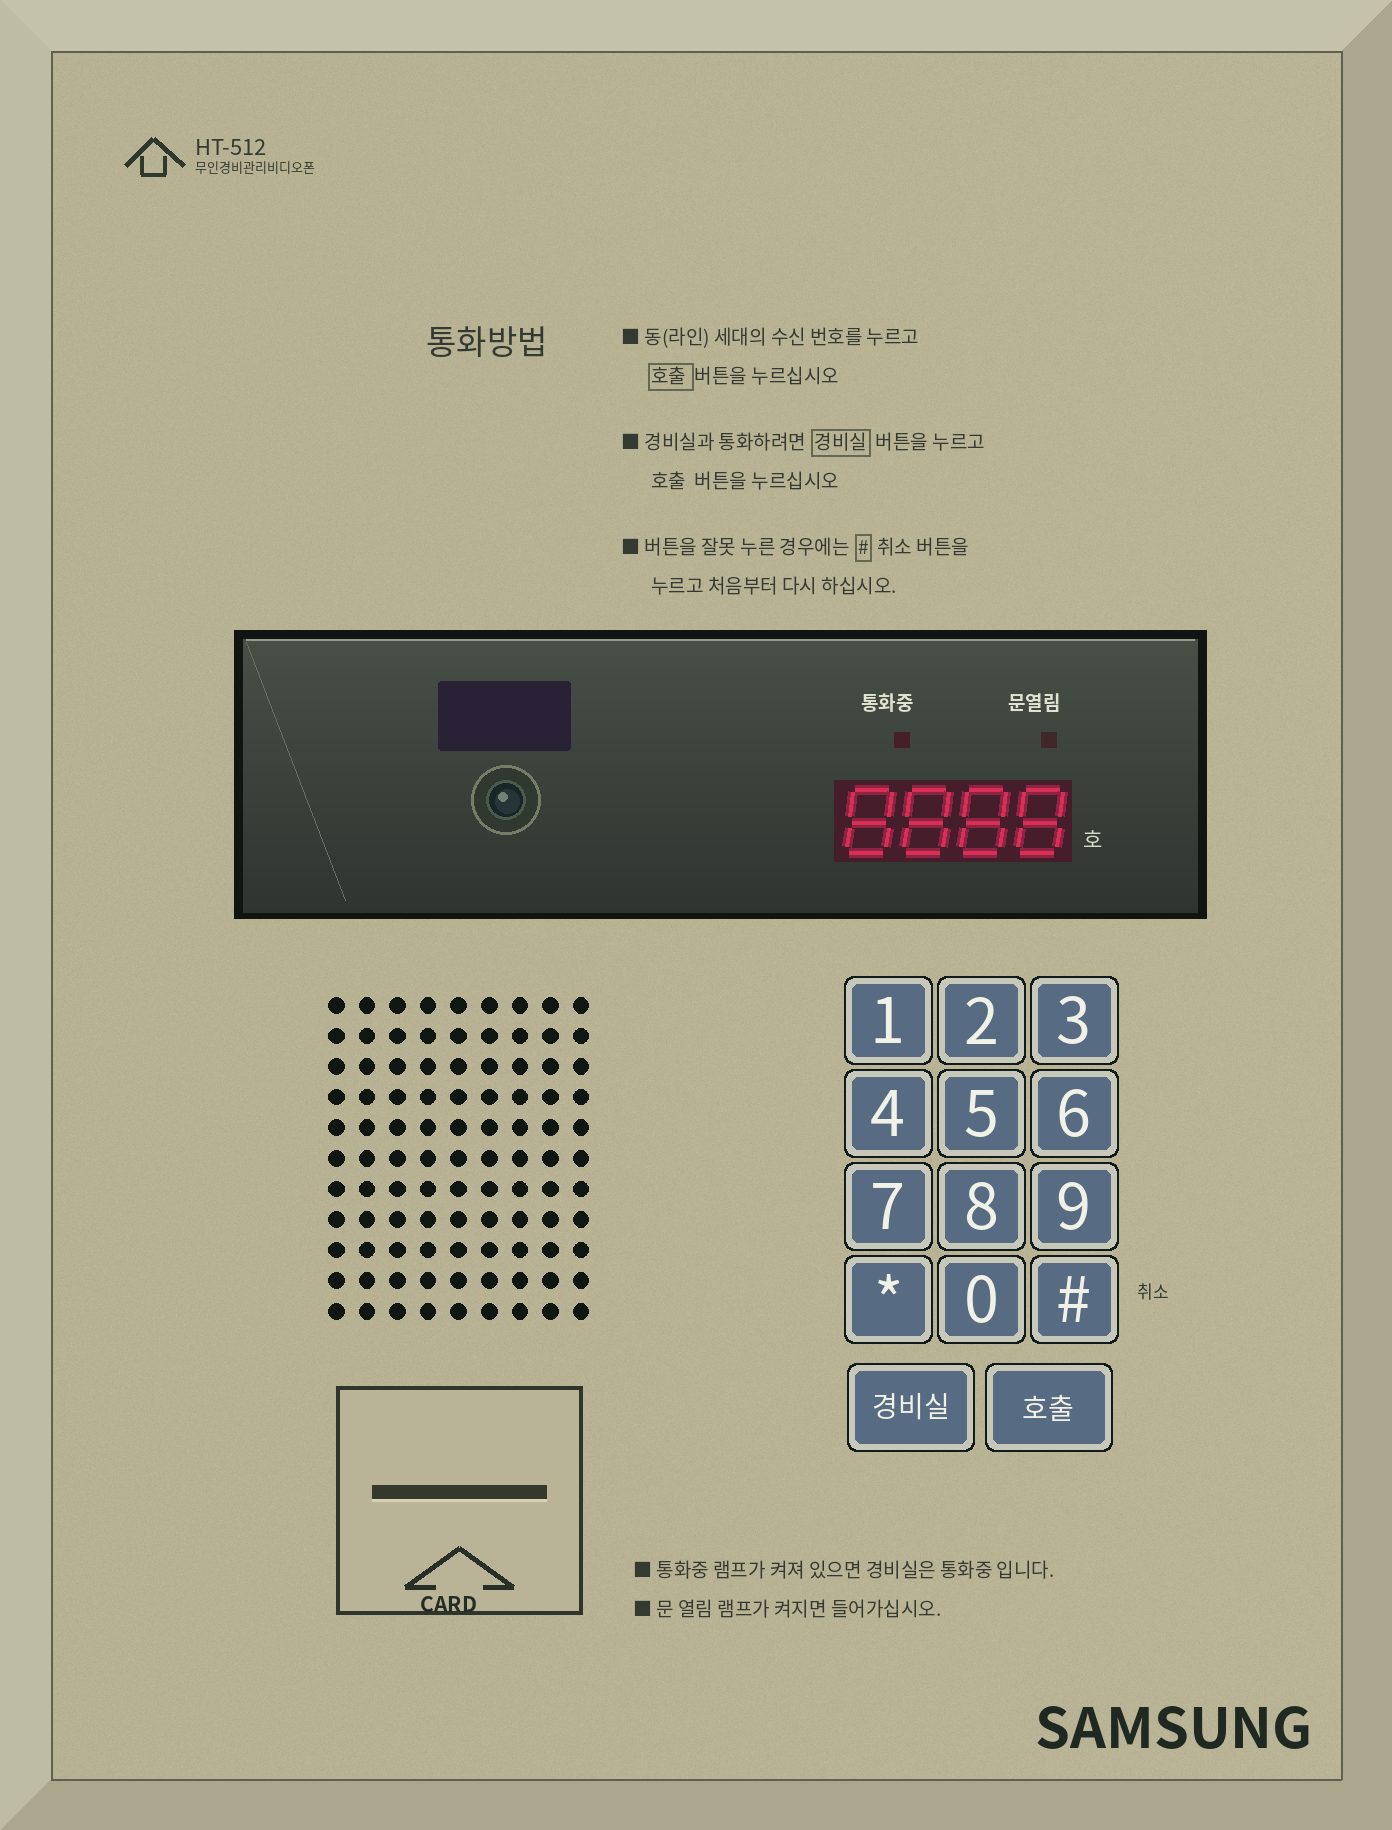
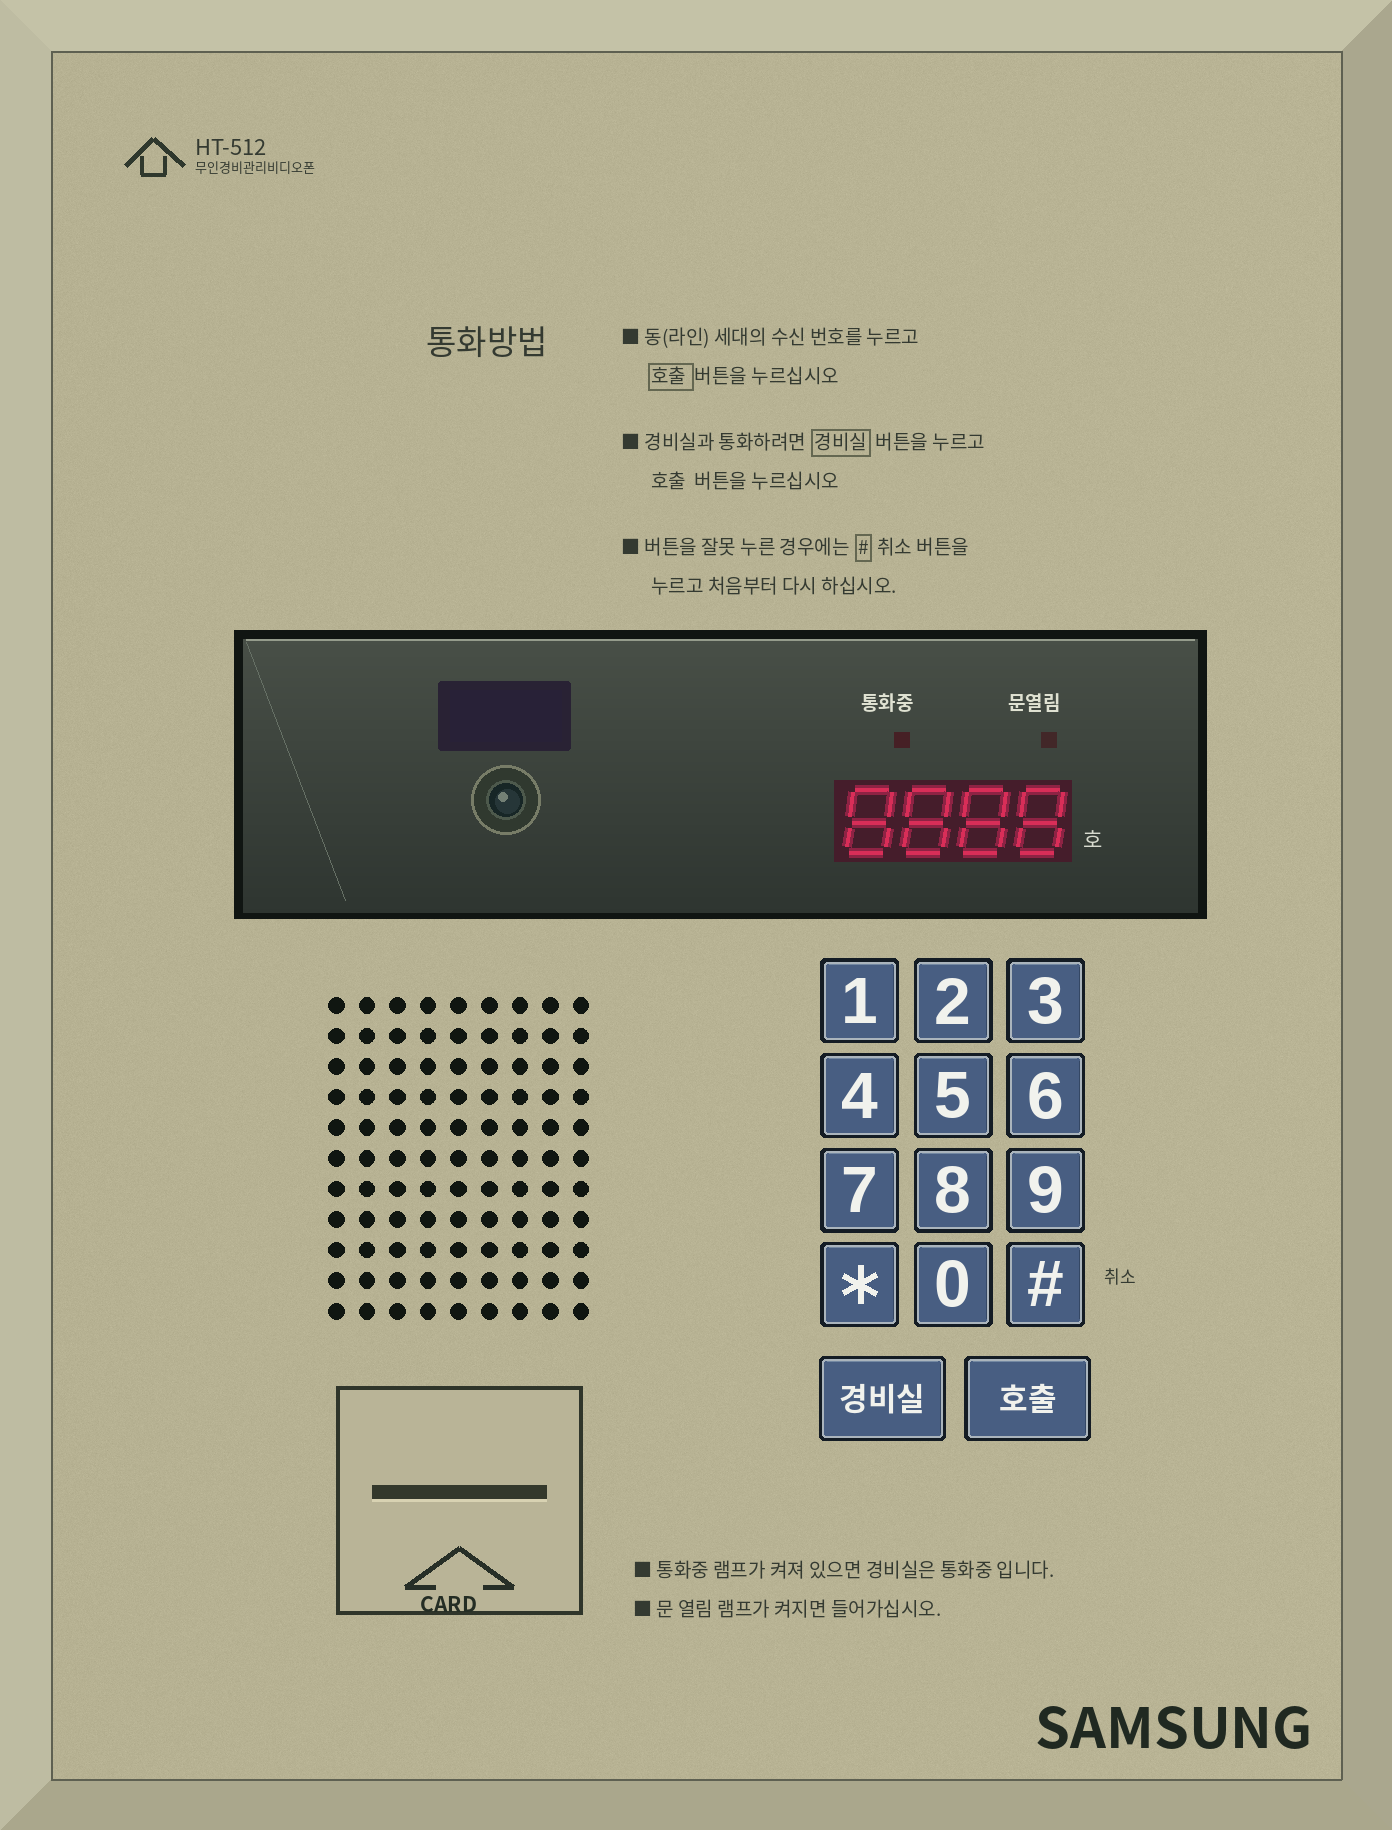
Match HT-512 keypad proportions spacing and cap styling to reference

Changed region(s): [[0.5869, 0.4984, 0.8032, 0.8098]]

diff --git a/tools/sht/ht512.py b/tools/sht/ht512.py
@@ -52,15 +52,36 @@ text(361,274,'호',7,'#d8dbcf')
 for row in range(11):
  for col in range(9):
   xx=112.1+col*10.2;yy=335.1+row*10.2;d.ellipse(((xx-2.6)*S,(yy-2.6)*S,(xx+2.6)*S,(yy+2.6)*S),fill='#101611')
+# Outer key boundaries measured after projective rectification of photo 1.
+# Coordinates describe the black socket, not an inner cap with extra borders added outside it.
 keys=[]
 for row,chars in enumerate(['123','456','789','*0#']):
- for col,ch in enumerate(chars):keys.append(dict(label=ch,x=282+31*col,y=326+31*row,w=28,h=28))
-keys += [dict(label='경비실',x=283,y=455,w=41,h=28),dict(label='호출',x=329,y=455,w=41,h=28)]
+ for col,ch in enumerate(chars):keys.append(dict(label=ch,x=273.5+31*col,y=319.5+31.5*row,w=26,h=28))
+keys += [dict(label='경비실',x=273,y=452,w=42,h=28),dict(label='호출',x=321.5,y=452,w=42,h=28)]
+style=dict(socketRadius=1.8,rimInset=1.1,rimRadius=1.1,faceInset=1.8,faceRadius=.8,labelInset=2.2,
+           socketColor='#141c24',rimColor='#aab4bc',faceColor='#485e82')
 for q in keys:
- xx,yy,ww,hh=(q[v] for v in ['x','y','w','h']);rr((xx-.75,yy-.75,xx+ww+.75,yy+hh+.75),'#111b1b',3);rr((xx,yy,xx+ww,yy+hh),'#c7c8ba',3);rr((xx+2,yy+2,xx+ww-2,yy+hh-2),'#576b82',2)
- sz=21 if len(q['label'])==1 else 9.5;f=font(sz);bb=d.textbbox((0,0),q['label'],font=f);tx=xx+(ww-(bb[2]-bb[0])/S)/2;ty=yy+(hh-(bb[3]-bb[1])/S)/2-bb[1]/S
- for dd in [d,k]:text(tx,ty,q['label'],sz,'#f0f1e7',draw=dd)
-text(379,426,'취소',5.8)
+ xx,yy,ww,hh=(q[v] for v in ['x','y','w','h'])
+ rr((xx,yy,xx+ww,yy+hh),style['socketColor'],style['socketRadius'])
+ ri,fi=style['rimInset'],style['faceInset']
+ rr((xx+ri,yy+ri,xx+ww-ri,yy+hh-ri),style['rimColor'],style['rimRadius'])
+ rr((xx+fi,yy+fi,xx+ww-fi,yy+hh-fi),style['faceColor'],style['faceRadius'])
+ # Narrow blue bevel highlights follow the real cap; the silver line is only 0.7 px wide.
+ line([(xx+fi+1,yy+fi),(xx+ww-fi-1,yy+fi)],'#7388a2',.45)
+ line([(xx+ww-fi,yy+fi+1),(xx+ww-fi,yy+hh-fi-1)],'#344764',.45)
+ if q['label']=='*':
+  # The photographed asterisk is a centered six-spoke mark, not a small raised font glyph.
+  cx,cy=xx+ww/2,yy+hh/2
+  for dd in [d,k]:
+   for angle in [30,90,150]:
+    a=np.deg2rad(angle);dx,dy=6.2*np.cos(a),6.2*np.sin(a)
+    line([(cx-dx,cy-dy),(cx+dx,cy+dy)],'#f1f2ed',1.9,draw=dd)
+ else:
+  numeric=len(q['label'])==1
+  f=ImageFont.truetype('/usr/share/fonts/truetype/liberation/LiberationSans-Bold.ttf',22*S) if numeric else font(10.2,True)
+  bb=d.textbbox((0,0),q['label'],font=f);tx=xx*S+(ww*S-bb[2]+bb[0])/2-bb[0];ty=yy*S+(hh*S-bb[3]+bb[1])/2-bb[1]
+  for dd in [d,k]:dd.text((round(tx),round(ty)),q['label'],font=f,fill='#f1f2ed')
+text(368,421,'취소',5.8)
 # Card insertion pocket and arrow.
 rect((112,462,194,538),'#2f352a');rect((113.5,463.5,192.5,536.5),'#b9b497')
 rect((124,495,182,500),'#34392c');line([(124,500),(182,500)],'#d8d2b2',1)
@@ -74,7 +95,7 @@ im.save(T/'front.png');ink.save(T/'key_ink.png')
 with zipfile.ZipFile(R/'.device-baseline/base.jar') as z:
  e=json.loads(z.read('assets/qwertys_homenet/models/block/klp_203.json'))['elements']
  h=(max(q['to'][1] for q in e)-min(q['from'][1] for q in e))/16
-spec=dict(width=W,height=H,blockHeight=h,blockWidth=h*W/H,depthPixels=20,frame=17,faceZ=15,speaker=dict(x=107,y=330,cols=9,rows=11,pitch=10.2,radius=2.6),keys=keys,mode='BUS',modelOnly=True)
+spec=dict(width=W,height=H,blockHeight=h,blockWidth=h*W/H,depthPixels=20,frame=17,faceZ=15,speaker=dict(x=107,y=330,cols=9,rows=11,pitch=10.2,radius=2.6),keys=keys,keyStyle=style,mode='BUS',modelOnly=True)
 (T/'model.json').write_text(json.dumps(spec,ensure_ascii=False,indent=2))
 for sub,obj in [('blockstates/ht_512.json',{'variants':{'':{'model':'minecraft:block/air'}}}),('models/item/ht_512.json',{'parent':'builtin/entity'}),('loot_tables/blocks/ht_512.json',{'type':'minecraft:block','pools':[{'rolls':1,'entries':[{'type':'minecraft:item','name':'homenet_sht101c:ht_512'}],'conditions':[{'condition':'minecraft:survives_explosion'}]}]})]:
  # Loot tables live in data, not assets.

diff --git a/src/sht/java/com/qwerty/homenet/sht/Ht512Visual.java b/src/sht/java/com/qwerty/homenet/sht/Ht512Visual.java
@@ -19,8 +19,9 @@ final class Ht512Visual {
  static final float W=464,H=610,SCALE=(float)(Ht512.HEIGHT/H);
  static final ResourceLocation FRONT=Product.id("ht512/front.png"),INK=Product.id("ht512/key_ink.png");
  record Key(String label,float x,float y,float w,float h){}
- static List<Key> keys;
- static void load(){if(keys!=null)return;try(var r=Minecraft.getInstance().getResourceManager().openAsReader(Product.id("ht512/model.json"))){var root=com.google.gson.JsonParser.parseReader(r).getAsJsonObject();var list=new ArrayList<Key>();for(var e:root.getAsJsonArray("keys"))list.add(new com.google.gson.Gson().fromJson(e,Key.class));keys=List.copyOf(list);}catch(Exception e){throw new IllegalStateException("HT-512 model",e);}}
+ record KeyStyle(float socketRadius,float rimInset,float rimRadius,float faceInset,float faceRadius,float labelInset,String socketColor,String rimColor,String faceColor){}
+ static KeyStyle keyStyle;static List<Key> keys;
+ static void load(){if(keys!=null)return;try(var r=Minecraft.getInstance().getResourceManager().openAsReader(Product.id("ht512/model.json"))){var root=com.google.gson.JsonParser.parseReader(r).getAsJsonObject();var list=new ArrayList<Key>();for(var e:root.getAsJsonArray("keys"))list.add(new com.google.gson.Gson().fromJson(e,Key.class));keyStyle=new com.google.gson.Gson().fromJson(root.get("keyStyle"),KeyStyle.class);keys=List.copyOf(list);}catch(Exception e){throw new IllegalStateException("HT-512 model",e);}}
  static void vertex(VertexConsumer b,PoseStack.Pose p,float x,float y,float z,float nx,float ny,float nz,int c,int light,float u,float v){Surface.vertex(b,p,x,y,z,nx,ny,nz,c,light,u,v);}
  static void face(PoseStack p,MultiBufferSource out,int light,float[][] points,ResourceLocation texture,int color){
   var b=out.getBuffer(RenderType.entityCutoutNoCull(texture));var a=points[0];var c=points[1];var d=points[2];float ux=c[0]-a[0],uy=c[1]-a[1],uz=c[2]-a[2],vx=d[0]-a[0],vy=d[1]-a[1],vz=d[2]-a[2];float nx=uy*vz-uz*vy,ny=uz*vx-ux*vz,nz=ux*vy-uy*vx;float len=(float)Math.sqrt(nx*nx+ny*ny+nz*nz);if(len==0){nx=ny=0;nz=1;len=1;}if(nz<0){nx=-nx;ny=-ny;nz=-nz;}
@@ -67,7 +68,13 @@ final class Ht512Visual {
   for(float[] q:new float[][]{{112,462,82,33},{112,500,82,38},{112,495,12,5},{182,495,12,5}})rect(p,o,l,q[0],q[1],q[2],q[3],15.3f,FRONT);
   solid(p,o,l,"card_slot",124,495,58,5,8,1,0,0x172016,0);
   face(p,o,l,new float[][]{{124,495,15.3f},{182,495,15.3f},{182,496,9},{124,496,9}},white,0x7e836a);
-  for(var k:keys){keySolid(p,o,l,k.x-.75f,k.y-.75f,k.w+1.5f,k.h+1.5f,15,1.1f,3,0x111a19,0);keySolid(p,o,l,k.x,k.y,k.w,k.h,16.1f,1,3,0xc3c4b4,0);keySolid(p,o,l,k.x+2,k.y+2,k.w-4,k.h-4,17.1f,2.3f,2,0x536780,.25f);rect(p,o,l,k.x+3,k.y+3,k.w-6,k.h-6,19.7f,INK);}
+  var style=keyStyle;float ri=style.rimInset,fi=style.faceInset,li=style.labelInset;
+  for(var k:keys){
+   keySolid(p,o,l,k.x,k.y,k.w,k.h,15,1.1f,style.socketRadius,Integer.parseInt(style.socketColor.substring(1),16),0);
+   keySolid(p,o,l,k.x+ri,k.y+ri,k.w-2*ri,k.h-2*ri,16.1f,1,style.rimRadius,Integer.parseInt(style.rimColor.substring(1),16),0);
+   keySolid(p,o,l,k.x+fi,k.y+fi,k.w-2*fi,k.h-2*fi,17.1f,2.3f,style.faceRadius,Integer.parseInt(style.faceColor.substring(1),16),.25f);
+   rect(p,o,l,k.x+li,k.y+li,k.w-2*li,k.h-2*li,19.7f,INK);
+  }
  }
  static void draw(PoseStack p,MultiBufferSource o,int light){GeometryCache.draw("ht512",p,o,light,Ht512Visual::mesh);}
  static void pose(Ht512.Unit b,PoseStack p){var offset=com.qwerty.homenet.move.DeviceOffsets.get(b.getLevel(),b.getBlockPos());p.translate(offset.x,offset.y,offset.z);double bottom=.5-Ht512.HEIGHT/2;switch(b.getBlockState().getValue(WallMountedBlock.FACING)){case NORTH->{p.translate(.5,bottom,1);p.mulPose(Axis.YP.rotationDegrees(180));}case SOUTH->p.translate(.5,bottom,0);case EAST->{p.translate(0,bottom,.5);p.mulPose(Axis.YP.rotationDegrees(90));}case WEST->{p.translate(1,bottom,.5);p.mulPose(Axis.YP.rotationDegrees(-90));}default->{}}p.scale(SCALE,SCALE,SCALE);p.translate(-W/2,H-700,0);}

diff --git a/src/shtTest/java/com/qwerty/homenet/sht/Ht512Probe.java b/src/shtTest/java/com/qwerty/homenet/sht/Ht512Probe.java
@@ -22,6 +22,12 @@ final class Ht512Probe {
   check(MeshProbe.nearest(all.vertices,151,497.5).z()<10,"Card slot is painted instead of recessed");
   check(MeshProbe.nearest(all.vertices,250,400).z()==15,"Main panel is not flat");
   double front=-1;for(var k:Ht512Visual.keys){double z=MeshProbe.nearest(all.vertices,k.x()+k.w()/2,k.y()+k.h()/2).z();check(z>19.3,"HT button buried");if(front>=0)check(Math.abs(z-front)<.01,"HT keys have different protrusion");front=z;}
+  // Probe the gaps in the actual mesh, not only the JSON dimensions.
+  for(float x:new float[]{302,333})check(Math.abs(MeshProbe.nearest(all.vertices,x,333.5).z()-15)<.001,"HT numeric sockets merge across the photo gap");
+  check(Math.abs(MeshProbe.nearest(all.vertices,318,466).z()-15)<.001,"HT action keys merge across the photo gap");
+  var one=Ht512Visual.keys.get(0);check(one.w()==26&&one.h()==28&&one.x()==273.5f&&one.y()==319.5f,"HT keypad not aligned to rectified photo");
+  var guard=Ht512Visual.keys.get(12);var call=Ht512Visual.keys.get(13);check(guard.y()==452&&call.y()==452&&Math.abs(call.x()-guard.x()-guard.w()-6.5)<.001,"HT lower row alignment/gap wrong");
+  check(Math.abs(Ht512Visual.keyStyle.faceInset()-Ht512Visual.keyStyle.rimInset()-.7)<.001,"HT bright rim is too thick");
   int builds=GeometryCache.builds;var discard=new MeshProbe.Capture();discard.save=false;for(int i=0;i<10;i++)Ht512Visual.draw(new PoseStack(),t->discard,15728880);check(GeometryCache.builds==builds,"HT mesh rebuilt each frame");check(all.vertices.size()<40000,"HT mesh excessive");
   HelpProbe.verify(new Ht512Visual.ModelScreen());Minecraft.getInstance().setScreen(null);
   System.out.println("HT512_MESH_PASS: KLP-203 exact height, photo ratio, 99 open speaker holes, inset card slot, 14 equally raised keys, cached mesh; no images");

diff --git a/tools/sht/package.py b/tools/sht/package.py
@@ -8,8 +8,8 @@ caption_overrides={f'assets/qwertys_homenet/textures/block/kvm931t/{name}.png' f
 with zipfile.ZipFile(base) as b,zipfile.ZipFile(extra) as a,zipfile.ZipFile(target,'w',zipfile.ZIP_DEFLATED,compresslevel=9) as out:
  for path in b.namelist():
   raw=a.read(path) if path in caption_overrides else b.read(path)
-  if path=='META-INF/mods.toml':raw=raw.replace(b'version="1.0.8"',b'version="1.0.30"')+b'\n[[mods]]'+a.read(path).split(b'[[mods]]',1)[1]
-  if path=='META-INF/MANIFEST.MF':raw=raw.replace(b'Implementation-Version: 1.0.8',b'Implementation-Version: 1.0.30')
+  if path=='META-INF/mods.toml':raw=raw.replace(b'version="1.0.8"',b'version="1.0.31"')+b'\n[[mods]]'+a.read(path).split(b'[[mods]]',1)[1]
+  if path=='META-INF/MANIFEST.MF':raw=raw.replace(b'Implementation-Version: 1.0.8',b'Implementation-Version: 1.0.31')
   out.writestr(path,raw)
  out.writestr("META-INF/coremods.json",a.read("META-INF/coremods.json"))
  for path in a.namelist():

diff --git a/docs/HT-512.md b/docs/HT-512.md
@@ -23,3 +23,13 @@
 실제 Forge 클라이언트에서 KLP-203 원본 높이와 비율, 99개 구멍의 개방 깊이, 카드 슬롯 깊이, 14개 키의 같은 돌출 높이, 메시 캐시 재사용을 검사했습니다. 네 방향의 모델·클릭 영역, 실제 블록 우클릭, 사용법 창, 크리에이티브 아이템 렌더 경로도 통과했습니다. 게임 화면 캡처는 하지 않았습니다.
 
 서버 검사 39개와 등록 기기 45종의 미세 이동·블록 경계 이동이 통과했습니다. HT-512가 통화 기기로 잘못 등록되거나 주기 작업을 수행하지 않는 것도 검사합니다. 기존 제품 클래스 239개는 배포 시 원본 바이트를 보존합니다.
+
+## 버튼 재디자인 — 1.0.31
+
+실물 첫 사진을 외곽 모서리로 정면 보정한 좌표와 설치 화면을 비교했습니다. 이전 숫자 버튼의 검은 외곽은 약 29.5×29.5, 새 외곽은 26×28입니다(제품 전체 기준 좌표 464×610). 버튼 묶음을 왼쪽·위로 이동하고, 가로 틈은 1.5에서 5, 세로 틈은 1.5에서 3.5로 조정했습니다. 경비실·호출 키는 같은 높이에서 아래 열에 재정렬하고 사이를 6.5만큼 띄웠습니다.
+
+두꺼운 밝은 테두리를 폭 0.7의 가는 은회색 선으로 바꾸고 모서리를 덜 둥글게 했습니다. 버튼 면은 더 푸른 청색으로, 숫자는 굵은 흰색 산세리프로, *는 중앙의 여섯 갈래 표시로 수정했습니다. 버튼 테두리·좌표 정의를 텍스처 생성과 실제 3D 메시가 공유합니다.
+
+외부 틀·전체 치수·표시창·스피커·카드 부분과 본체 인쇄는 유지합니다. 버튼 및 취소 글자 주변을 제외한 텍스처 픽셀이 이전 배포본과 같은 것도 확인했습니다. 기능은 계속 외형 전용입니다.
+
+이번 수정은 실제 클라이언트에서 버튼 사이의 전면판이 드러나는지, 아래 키 간격과 테두리 폭, 같은 돌출 높이, 네 방향 설치·아이템·사용법 표시를 검사했습니다. 기존 영상·통화·휴대장치·공통 이동 클라이언트 검사도 통과했습니다.

diff --git a/README.md b/README.md
@@ -1,3 +1,7 @@
+## HT-512 버튼 재디자인 — 1.0.31
+
+실물과 설치 화면을 비교해 숫자키를 줄이고 왼쪽·위로 재배치했습니다. 버튼 사이 간격, 경비실·호출 키 정렬, 가는 은회색 테두리, 청색 전면과 굵은 흰 숫자·별표를 수정했습니다. 외부 틀과 나머지 본체 부분은 유지합니다. [변경 설명](docs/HT-512.md)
+
 ## 삼성 HT-512 디지털 로비폰 외형 — 1.0.30
 
 첫 번째 사진의 샴페인 금색과 외곽 비율을 기준으로 HT-512(BUS) 외형을 추가했습니다. 높이는 KLP-203의 실제 모델과 같고, 폭은 사진 비율에 맞췄습니다. 경사 테두리·카메라/LED 표시창·깊이 있는 스피커 구멍·돌출 키패드·카드 투입구·인쇄를 재현합니다. 삼성 탭에서 설치할 수 있으며 공통 이동 도구와 사용법 화면을 지원합니다. **호출·통화·문열림·카드 기능은 추후 사양에 따라 구현하며 현재는 외형만 제공합니다.** [HT-512 설명](docs/HT-512.md)
